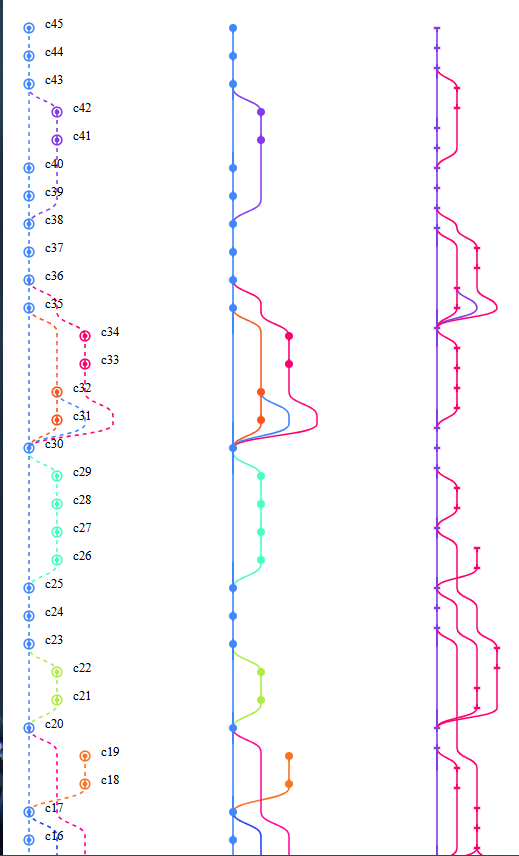
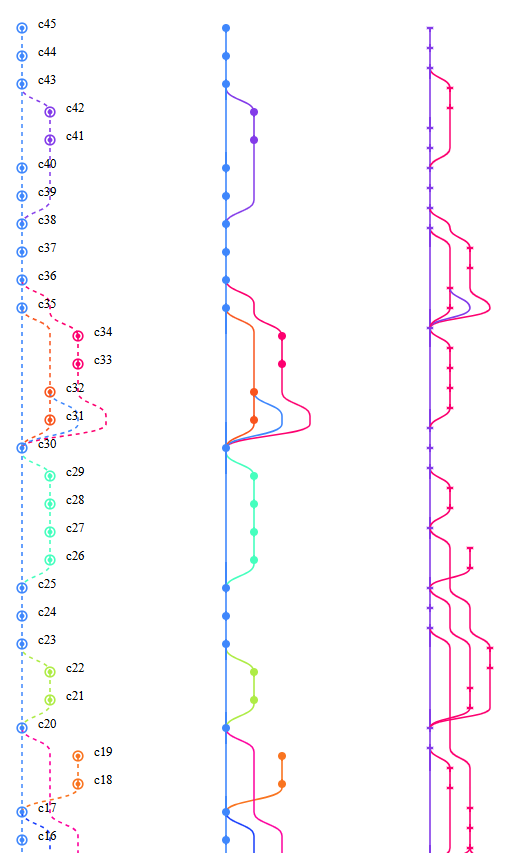
updated screenshots

diff --git a/vite.config.ts b/vite.config.ts
@@ -17,7 +17,7 @@ export default defineConfig({
     lib: {
       entry: path.resolve(__dirname, "src/index.ts"),
       name: "GitRepoGraph",
-      fileName: (format) => `git-repo-graph.${format}.js`,
+      fileName: (format) => `git-graph-svg.${format}.js`,
     },
     rollupOptions: {
       external: ["react", "react-dom"],

diff --git a/index.html b/index.html
@@ -4,7 +4,7 @@
     <meta charset="UTF-8" />
     <link rel="icon" type="image/svg+xml" href="/vite.svg" />
     <meta name="viewport" content="width=device-width, initial-scale=1.0" />
-    <title>git-repo-graph</title>
+    <title>git-graph-svg</title>
   </head>
   <body>
     <div id="root"></div>
